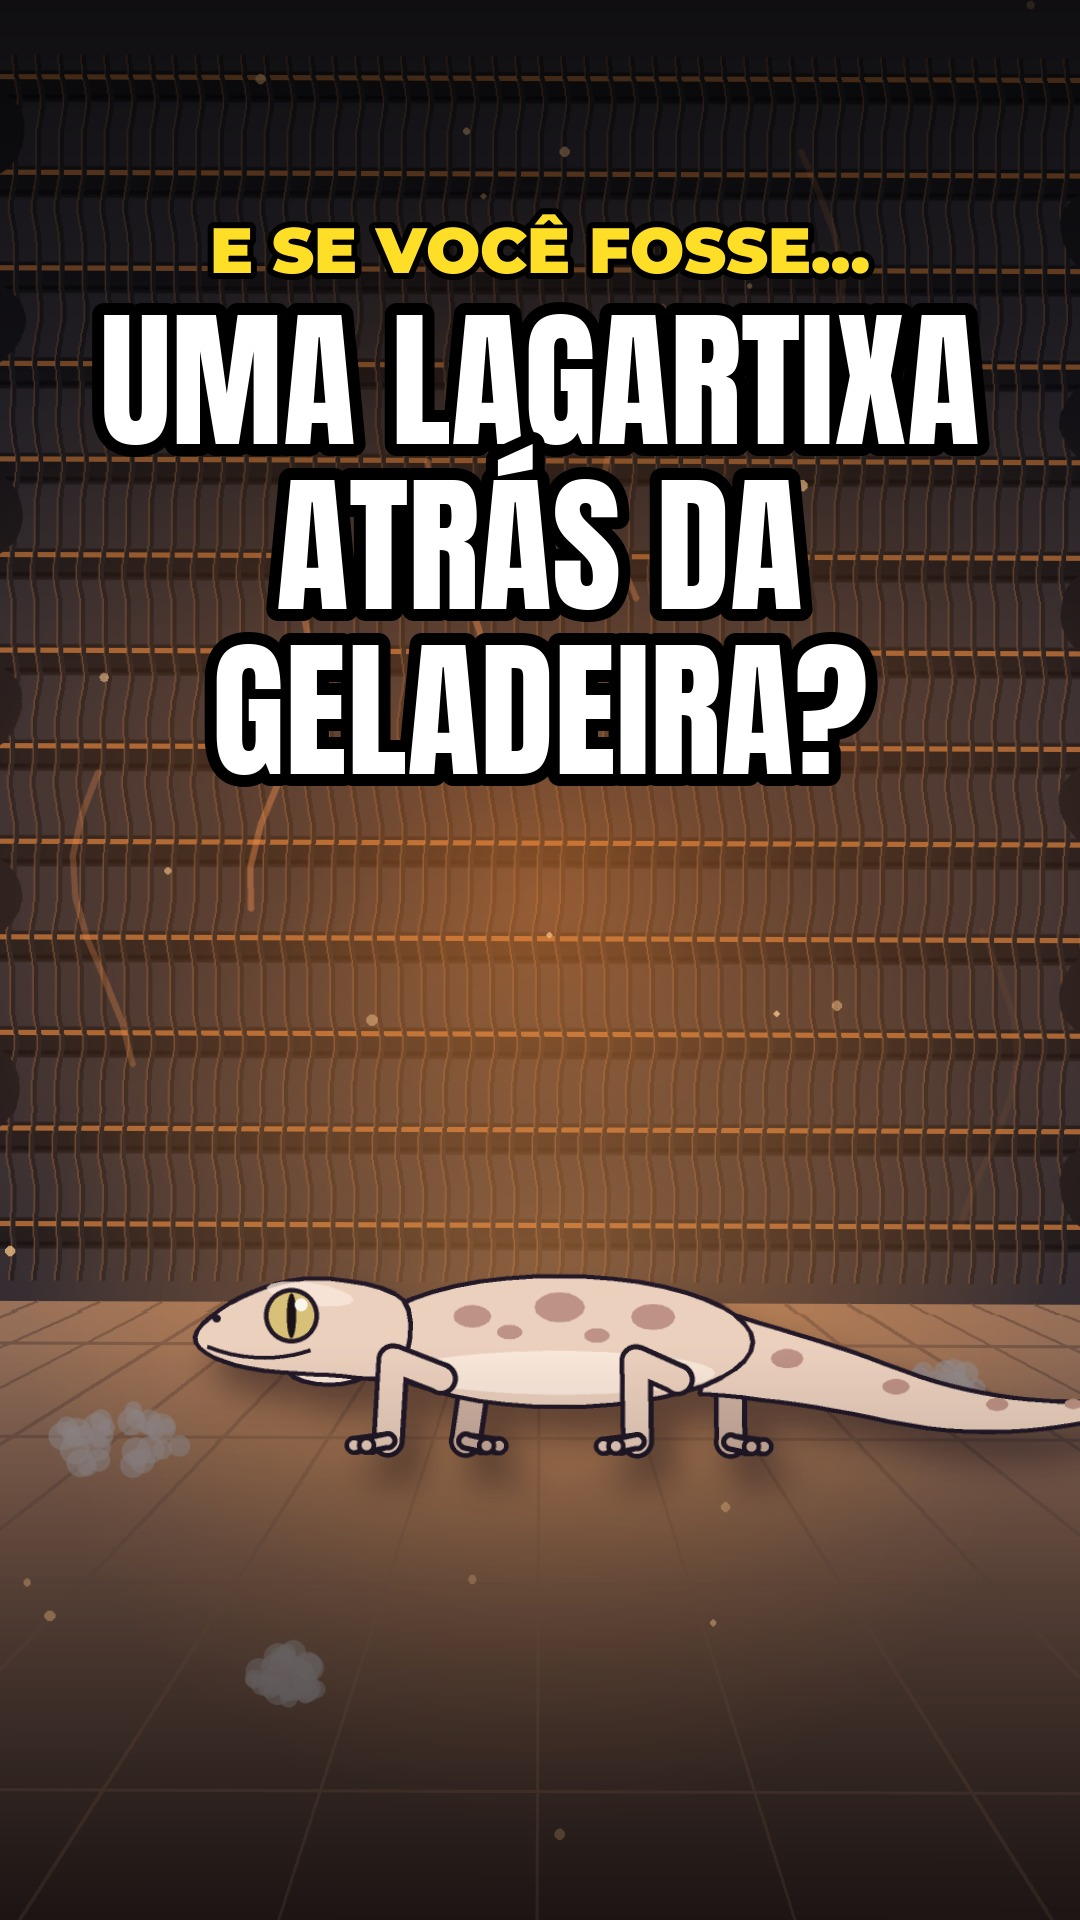
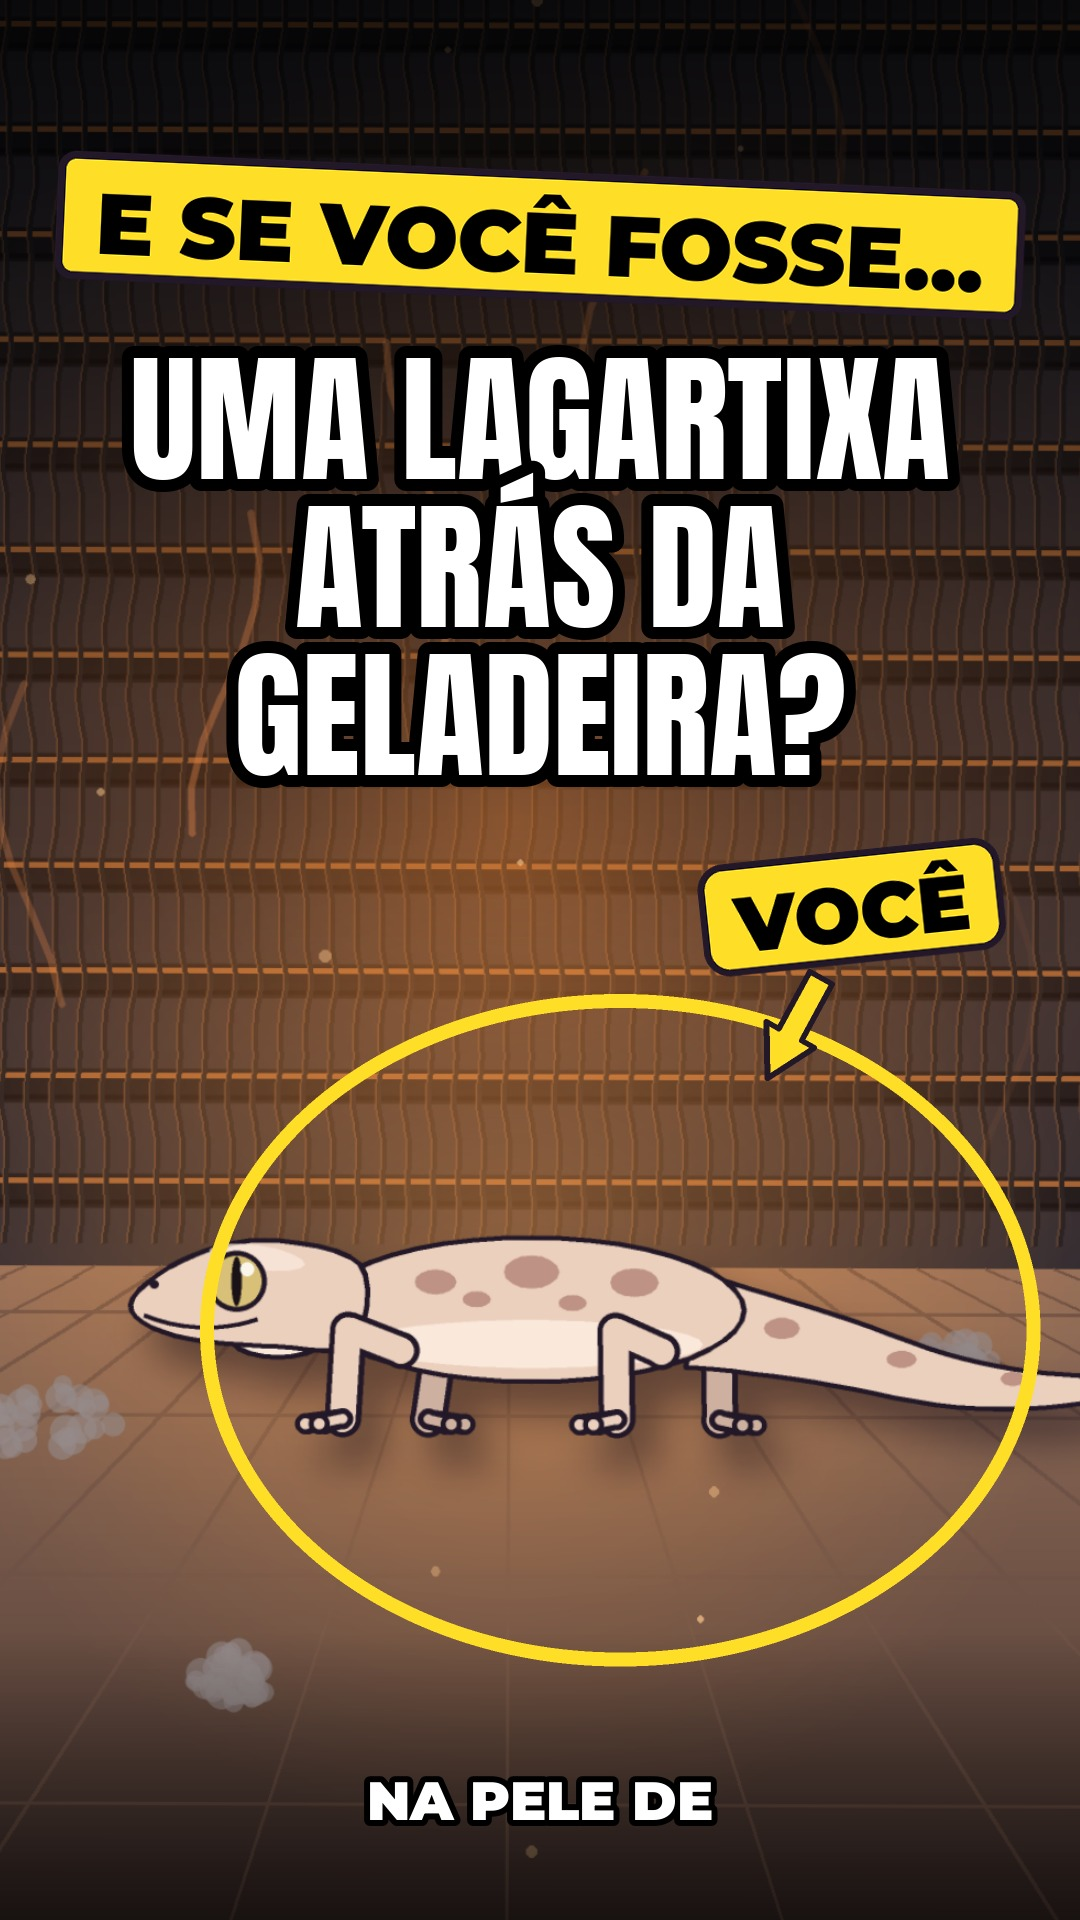
canal5: capa nova (E SE VOCÊ FOSSE… + anel VOCÊ no bicho), modo --cover e docs para a rotina
Claude-Session: https://claude.ai/code/session_014ASHFHnJfGLzB1suRkQuLF

diff --git a/canal5/pipeline/engine.py b/canal5/pipeline/engine.py
@@ -498,19 +498,59 @@ def write_srt(T, path):
     open(path, "w", encoding="utf-8").write("\n".join(lines))
 
 
+def _title_line(d, cx, y, ln, size):
+    """linha de título em Anton; o "º" sai pequeno e alto (a fonte não tem o ordinal bem desenhado)"""
+    f, fo = A.F(size, "anton"), A.F(int(size * 0.5), "anton")
+    parts = ln.split("º")
+    wid = sum(f.getlength(p) for p in parts) + fo.getlength("o") * (len(parts) - 1)
+    x = cx - wid / 2; top = y - size * 0.5
+    for k, p in enumerate(parts):
+        d.text((x, y), p, font=f, fill=(255, 255, 255), anchor="lm", stroke_width=12, stroke_fill=(0, 0, 0))
+        x += f.getlength(p)
+        if k < len(parts) - 1:
+            d.text((x + 4, top + size * 0.08), "o", font=fo, fill=(255, 255, 255), anchor="lt", stroke_width=8,
+                   stroke_fill=(0, 0, 0))
+            x += fo.getlength("o") + 8
+
+
 def write_cover(R, path):
+    """capa: cena aproximada no bicho + faixa "E SE VOCÊ FOSSE…" + título + selo "VOCÊ" apontando para o bicho.
+    script.json -> cover: {t, title[], focus:[x,y] (onde o bicho está no quadro t), zoom, r (raio do anel),
+    at:[x,y] (onde o bicho fica na capa; padrão 540,1240)}"""
     S = R.S; cv = S.get("cover", {})
     img = R.frame(int(cv.get("t", 1.0) * FPS), captions=False, overlays=False).convert("RGBA")
-    shade = A.vgrad(W, H, [(0, (0, 0, 0, 170)), (0.35, (0, 0, 0, 0)), (0.7, (0, 0, 0, 0)), (1, (0, 0, 0, 150))])
+    fx, fy = cv.get("focus", [W / 2, H * 0.62]); px, py = cv.get("at", [W / 2, 1240]); z = cv.get("zoom", 1.0)
+    img = A.cam(img, zoom=z, dx=px - fx, dy=py - fy, cx=fx, cy=fy)
+    shade = A.vgrad(W, H, [(0, (0, 0, 0, 200)), (0.36, (0, 0, 0, 40)), (0.52, (0, 0, 0, 0)), (0.85, (0, 0, 0, 0)),
+                           (1, (0, 0, 0, 170))])
     img.alpha_composite(shade)
+    acc = tuple(S.get("accent", (230, 60, 80)))
+    # anel de destaque em volta do bicho
+    r = cv.get("r", 260)
+    ring = A.SS(W, H, s=2)
+    ring.ellipse(px, py, r, r * 0.8, ink=YELLOW, w=14)
+    img.alpha_composite(ring.get())
+    # selo "VOCÊ" com seta: você = o bicho
+    tag = A.sticker("VOCÊ", size=78, fg=(0, 0, 0), bg=YELLOW, pad=(34, 14), radius=26, iw=7).rotate(6, expand=True,
+                                                                                                     resample=Image.BICUBIC)
+    sx = int(px + r * 0.55); sy = int(py - r * 0.8 - 210)
+    lines = cv.get("title", ["?"]); size = 158 if max(len(l) for l in lines) <= 12 else 140
+    y_title_end = 420 + int(size * 1.06) * (len(lines) - 1) + size // 2
+    sx = min(sx, W - tag.width // 2 - 30); sy = max(sy, y_title_end + tag.height // 2 + 40)
+    ar = A.SS(W, H, s=2)
+    A.arrow(ar, sx - 30, sy + tag.height // 2 - 10, px + r * 0.35, py - r * 0.6, YELLOW, w=26, iw=6)
+    img.alpha_composite(ar.get())
+    A.paste_c(img, tag, sx, sy)
+    # faixa da série
+    band = A.sticker("E SE VOCÊ FOSSE…", size=86, fg=(0, 0, 0), bg=YELLOW, pad=(40, 18), radius=18, iw=8)
+    band = band.rotate(-2.5, expand=True, resample=Image.BICUBIC)
+    A.paste_c(img, band, W // 2, 235)
     d = ImageDraw.Draw(img)
-    d.text((W / 2, 250), S.get("hud_series", "E SE VOCÊ FOSSE…"), font=A.F(64, "mont-Black"), fill=YELLOW, anchor="mm",
+    y = 420
+    for ln in lines:
+        _title_line(d, W / 2, y, ln, size); y += int(size * 1.06)
+    d.text((W / 2, H - 120), "NA PELE DE", font=A.F(54, "mont-Black"), fill=(255, 255, 255), anchor="mm",
            stroke_width=6, stroke_fill=(0, 0, 0))
-    y = 380
-    for ln in cv.get("title", ["?"]):
-        d.text((W / 2, y), ln, font=A.F(150, "anton"), fill=(255, 255, 255), anchor="mm", stroke_width=12,
-               stroke_fill=(0, 0, 0))
-        y += 165
     img.convert("RGB").save(path, quality=92)
 
 
@@ -548,8 +588,11 @@ def main():
     ap.add_argument("ep"); ap.add_argument("--sheet", action="store_true"); ap.add_argument("--stills", default="")
     ap.add_argument("--workers", type=int, default=max(1, (os.cpu_count() or 2) - 1))
     ap.add_argument("--draft", action="store_true"); ap.add_argument("--audio", action="store_true")
+    ap.add_argument("--cover", action="store_true", help="só refaz capa.jpg usando o timeline.json (sem voz)")
     a = ap.parse_args()
     ep = os.path.abspath(a.ep)
+    if a.cover:
+        write_cover(Renderer(ep), os.path.join(ep, "capa.jpg")); print(os.path.join(ep, "capa.jpg")); return
     t_start = time.time()
     S, T, voice = build_timeline(ep)
     nw = len(T["words"])

diff --git a/canal5/README.md b/canal5/README.md
@@ -20,10 +20,11 @@ canal5/
 ### Passo a passo de um episódio novo
 1. Copiar `d01a-formiga/script.json` para `dNNx-animal/script.json` e reescrever: `beats` (uma frase por item; `*palavra*` = destaque amarelo; `scene` = id da cena; o último beat leva `"payoff": true` e `"pause_before": 0.3`), `scenes` (HUD, etiquetas com `at` = palavra que dispara, SFX, `vision`), `say_map` (só para a voz Kokoro; a voz neural lê números e unidades sozinha), `music` (bpm/tom/semente diferentes a cada vídeo), `publish` e `sources`.
 2. Criar `pipeline/scenes/<animal>.py` com uma função por id de cena. `ctx.wt("palavra")` dá o instante (s) em que a palavra é falada dentro da cena, para sincronizar a animação com a narração.
-3. Revisar sem gerar vídeo: `python3 -I canal5/pipeline/engine.py canal5/dNNx-animal --sheet` (folha de contato em `.cache/sheet.png`) e `--stills 0,12.5` (quadros em tamanho real).
-4. Render: `python3 -I canal5/pipeline/engine.py canal5/dNNx-animal` (~3 min no Mac com 8 núcleos).
-5. Publicar: copiar `publish.draft.json` para `publish.json` (o `channel_id` e o `publish_at` vêm do bloco `publish` do script.json; A 12:00, B 19:00, com `-03:00`). O robô do servidor publica **qualquer** `publish.json` que chegar na `main`.
-6. Atualizar `controle.md`.
+3. Capa (`cover` no script.json): `t` = instante do quadro de fundo (escolha um em que o bicho aparece inteiro e grande), `title` = 2–3 linhas curtas do título, `focus` = [x, y] de onde o bicho está nesse quadro, `zoom` (1,0–1,6; cuidado para não aparecer borda preta), `at` = [x, y] onde o bicho fica na capa (padrão 540, 1240), `r` = raio do anel amarelo (~270–440). A capa sai com a faixa amarela "E SE VOCÊ FOSSE…", o título, um anel no bicho com o selo "VOCÊ" e a seta (você = o bicho) e "NA PELE DE" embaixo. Refazer só a capa, sem voz: `python3 -I canal5/pipeline/engine.py canal5/dNNx-animal --cover` (usa o timeline.json). Abrir `capa.jpg` e conferir: bicho dentro do anel, selo sem tapar o título, sem borda preta.
+4. Revisar sem gerar vídeo: `python3 -I canal5/pipeline/engine.py canal5/dNNx-animal --sheet` (folha de contato em `.cache/sheet.png`) e `--stills 0,12.5` (quadros em tamanho real).
+5. Render: `python3 -I canal5/pipeline/engine.py canal5/dNNx-animal` (~3 min no Mac com 8 núcleos).
+6. Publicar: copiar `publish.draft.json` para `publish.json` (o `channel_id` e o `publish_at` vêm do bloco `publish` do script.json; A 12:00, B 19:00, com `-03:00`). O robô do servidor publica **qualquer** `publish.json` que chegar na `main`.
+7. Atualizar `controle.md`.
 
 ### Regras que o motor já cumpre
 - 1080×1920, 30 fps, H.264 + AAC; volume final ≈ −16 dB médio.
@@ -32,7 +33,11 @@ canal5/
 - Troca de cena com "soco" de zoom + flash curto + 1 SFX; trilha a −20 dB; 0,3 s de silêncio antes do payoff.
 - `vision: {"type": "compound"}` aplica o olho composto; outras visões (noturna, UV, térmica, sonar) ficam na própria cena (`art.night_reveal` é a primeira).
 
+### Sobre a capa no YouTube
+O YouTube não aceita capa enviada para Shorts: no feed de Shorts aparece um quadro do próprio vídeo (por isso o quadro 0 tem de ser a imagem mais forte). O robô só envia `capa.jpg` em vídeos longos. A capa serve para Instagram/TikTok (Buffer), para o longo semanal e, se o Hélio quiser, para escolher manualmente no app do YouTube.
+
 ## Ambiente
 - Mac: `~/.venvs/canal5` (Python 3.11 via `uv`). Rodar com `~/.venvs/canal5/bin/python -I canal5/pipeline/engine.py …`.
-- Nuvem / máquina nova: `bash canal5/setup.sh` (pacotes Python e ffmpeg; testa a voz neural). Rotina diária: prompt em `canal5/rotina.md`.
-- Voz: `"tts": {"engine": "edge", "voice": "pt-BR-ThalitaMultilingualNeural", "rate": "+0%"}` no script.json (precisa de internet). Kokoro (`"engine": "kokoro"`, offline) continua disponível, mas soa estrangeira em PT-BR.
+- Nuvem / máquina nova: `bash canal5/setup.sh` (se der `cannot import name '_imaging' from 'PIL'`, rode `python3 -m pip install --break-system-packages --ignore-installed pillow`) (pacotes Python e ffmpeg; testa a voz neural). Rotina diária: prompt em `canal5/rotina.md`.
+- Voz: `"tts": {"engine": "edge", "voice": "pt-BR-ThalitaMultilingualNeural", "rate": "+0%"}` no script.json (precisa de internet). Kokoro (`"engine": "kokoro"`, offline) continua disponível, mas soa estrangeira em PT-BR e foi REPROVADA pelo Hélio: não usar.
+- Na nuvem, a voz só funciona se o ambiente liberar `speech.platform.bing.com` na rede (sem isso: erro 403 no proxy / "No server date in headers"). Se a voz falhar 2 vezes, parar sem entregar e avisar o Hélio.

diff --git a/canal5/rotina.md b/canal5/rotina.md
@@ -20,7 +20,7 @@ PRODUÇÃO (para cada vídeo do dia)
 3. Escreva canal5/dNNa-<animal>/script.json (e dNNb-<animal> no mesmo dia), no formato do modelo: 110–140 palavras, frases com até 12 palavras, 1ª frase em 1ª pessoa com contraste de escala, pelo menos 1 número, fato mais forte por último (último beat com "payoff": true e "pause_before": 0.3), última frase emendando na primeira. Proibido "olá", "hoje vamos ver", "você sabia que". Voz: "tts": {"engine": "edge", "voice": "pt-BR-ThalitaMultilingualNeural", "rate": "+0%"} (aprovada pelo Helio; NUNCA use Kokoro, ele reprovou). Música com bpm, tom e semente diferentes dos últimos vídeos. Bloco publish: título "E se você fosse ...? #shorts"; descrição com pergunta para os comentários, as fontes, "Narração com voz sintética; roteiro e animação próprios." e 3 a 5 hashtags sempre com #esevocefosse; "channel_id": "UCO5Fa5_HJxd-aeTiyQcw0Sw"; "publish_at" na DATA ALVO com -03:00; "pinned_comment" com uma pergunta, SEM emoji (com emoji o robô não reconhece o próprio comentário e posta de novo).
 4. Escreva canal5/pipeline/scenes/<animal>.py: uma função por cena, 7 a 9 cenas, troca a cada 5–8 s; quadro 0 já em movimento e com a imagem mais forte; cena Visão do Bicho entre ~25 e 35 s; raio-X com azul = frio, vermelho = quente, amarelo = eletricidade, verde = ar/água; patas/antenas/bico na borda nas cenas em POV; paleta e abertura diferentes das dos últimos 3 vídeos; a última cena termina no mesmo quadro do início (loop). Nada que incentive pôr animal em perigo.
 5. Revise sem gerar vídeo: `python3 -I canal5/pipeline/engine.py canal5/<pasta> --sheet` e ABRA a imagem canal5/<pasta>/.cache/sheet.png. Procure legenda tapando o essencial, texto cortado, fundo preto ou vazio, elementos fora da tela, quadro final diferente do inicial. Corrija e repita até ficar limpo (use --stills 0,12.5 para ver quadros em tamanho real).
-6. Render: `python3 -I canal5/pipeline/engine.py canal5/<pasta>` (gera video.mp4, capa.jpg, legendas.srt e publish.draft.json). Duração entre 40 e 55 s.
+6. Render: `python3 -I canal5/pipeline/engine.py canal5/<pasta>` (gera video.mp4, capa.jpg, legendas.srt e publish.draft.json). Duração entre 40 e 55 s. Antes, preencha "cover" (t, title, focus, zoom, at, r; ver README) e ABRA capa.jpg: bicho dentro do anel amarelo, selo "VOCÊ" sem tapar o título, sem borda preta (ajuste e refaça só a capa com --cover).
 7. Rode o checklist da seção 12 do plano; se algum item falhar, corrija antes de entregar.
 8. Copie publish.draft.json para publish.json na mesma pasta. Valide na raiz do repositório: `python3 -c "import sys; sys.path.insert(0,'server/publisher'); import manifest as m; from pathlib import Path; i,e=m.discover(Path('.')); print([x.key for x in i if x.key.startswith('c5-')]); print('ERROS:', [x for x in e if 'canal5' in x])"`. As suas keys têm de aparecer e ERROS tem de estar vazio.
 Se a voz falhar depois de 2 tentativas, NÃO troque de voz: pare sem entregar e diga no relatório "a voz não respondeu hoje".

diff --git a/canal5/controle.md b/canal5/controle.md
@@ -41,3 +41,6 @@ Metas: continuaram assistindo ≥ 70% · % visualizada ≥ 80%.
 - **20/11 — Cenas:** 9 cenas por vídeo (o plano sugere 5–7), para manter troca a cada ~5 s.
 - 20/11: comentário fixado sempre SEM emoji (o YouTube mostra o emoji como imagem e o robô não reconhecia o próprio comentário: a formiga ganhou 3 cópias, 2 apagadas). Fixar comentário no canal novo exige verificar o telefone no YouTube (pendente do Hélio).
 - 20/11: a rede da nuvem bloqueia o servidor da voz (speech.platform.bing.com, 403 no proxy). A rotina só produz depois que o domínio for liberado no ambiente.
+- 21/11 — **Capa nova** (pedido do Hélio): faixa amarela "E SE VOCÊ FOSSE…" maior, título, bicho ampliado dentro de um anel amarelo com o selo "VOCÊ" e seta (a ideia da série: você = o bicho), "NA PELE DE" no rodapé; o "º" agora sai certo. Campos novos em `cover`: `focus`, `zoom`, `at`, `r`. Capas do Dia 1 refeitas. Obs.: o YouTube não usa capa enviada em Shorts; ela vale para Instagram/TikTok, longo semanal e escolha manual no app.
+- 21/11 — Rotina das 06:30 não produziu o Dia 2: a voz continua bloqueada na rede da nuvem (403 em speech.platform.bing.com). Dia 2 (mosquito + barata) fica para a próxima rodada depois da liberação.
+
